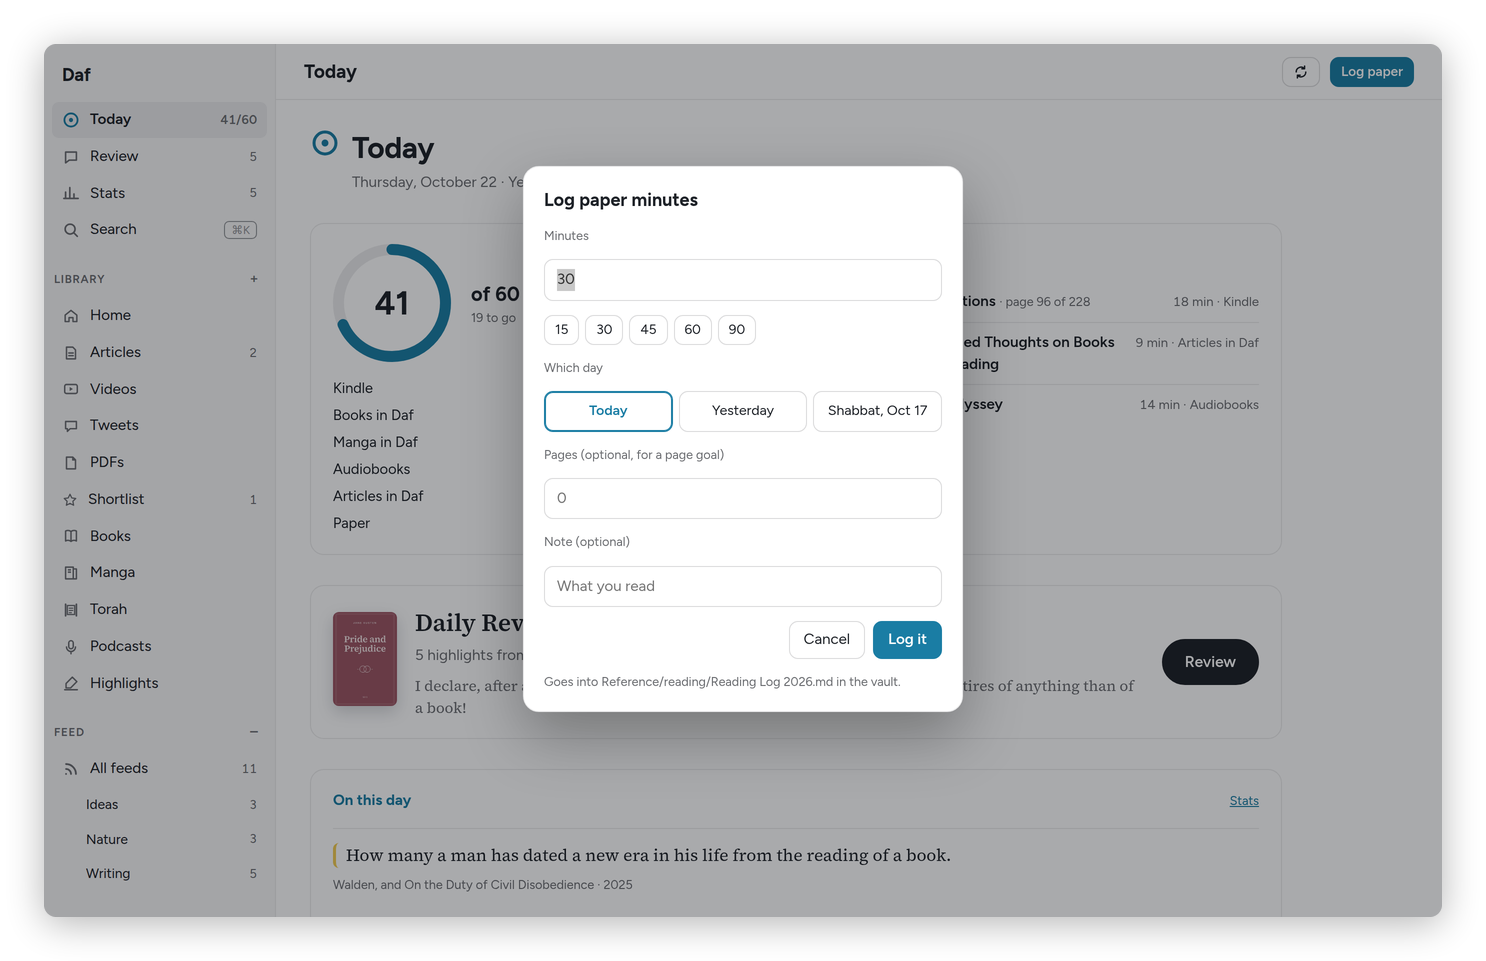
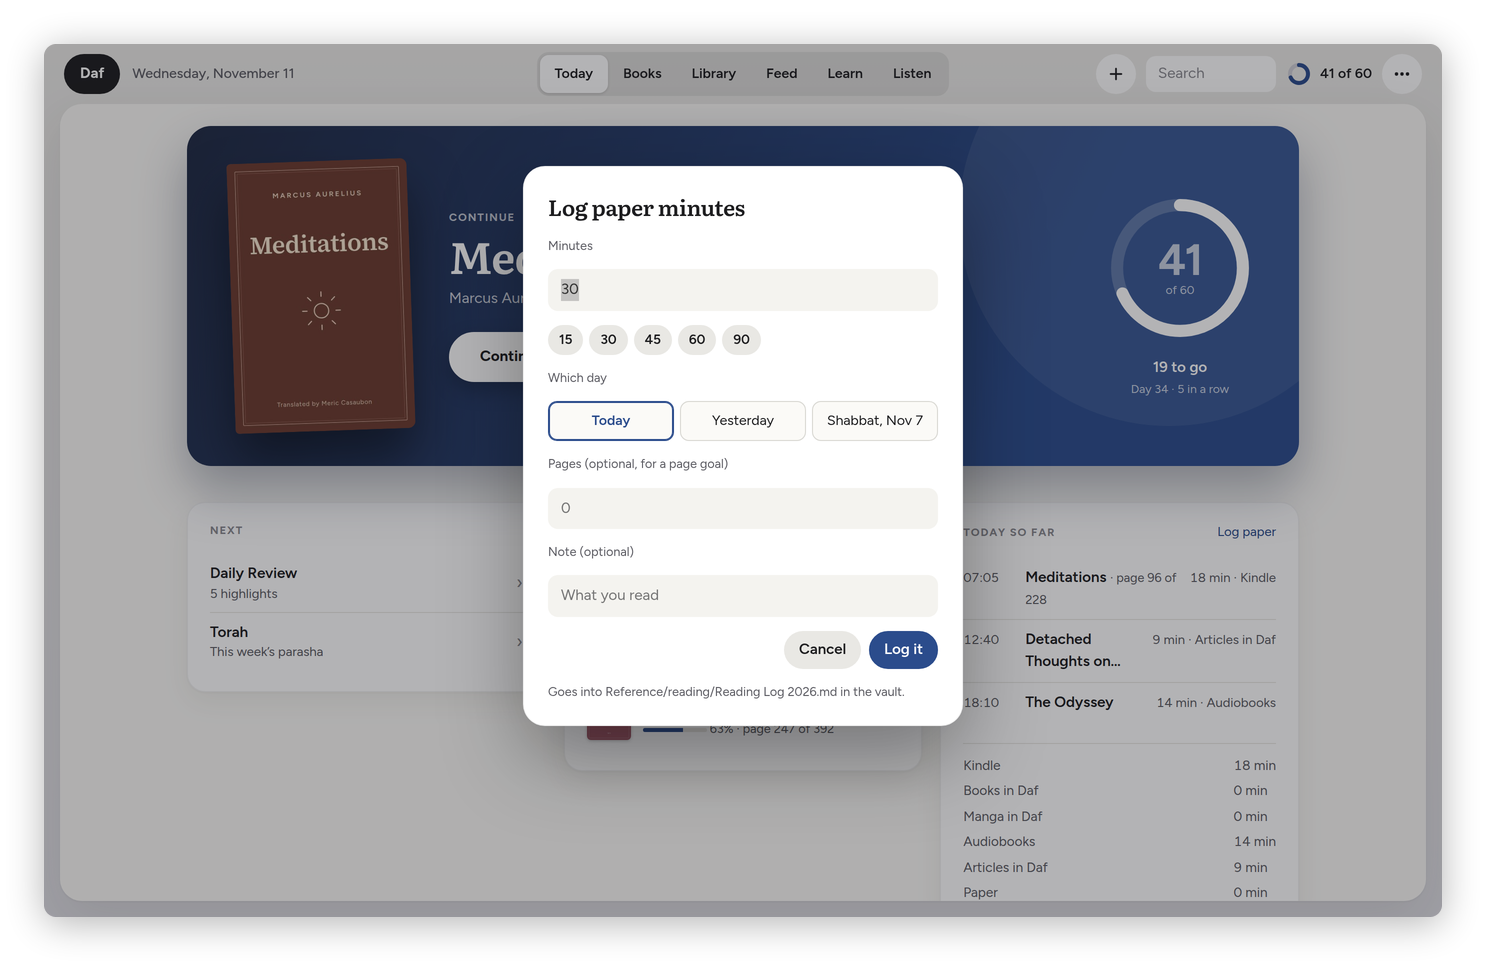
The new look is what Daf opens in; the guide's pictures in it (#58)
* The new look is what Daf opens in

Every device gets the new look unless it's turned off there (Preferences → New look → Off, or
?look=1), which keeps the old look for a while. The guide says so.

* The guide's pictures in the new look, from the sample library

docs/images retaken with tools/docs_shots.py. The sample library's pinned places never include
Recovery now (taste/app/demo.js), since the new look builds its tabs from them; the old sidebar was
filtered, the tabs weren't.

---------

diff --git a/web/index.html b/web/index.html
@@ -6,8 +6,8 @@
 <meta name="theme-color" content="#ffffff" media="(prefers-color-scheme: light)">
 <meta name="theme-color" content="#16171a" media="(prefers-color-scheme: dark)">
 <title>Daf</title>
-<script>/* the new look, if this device has it on (Preferences, or ?look=2 and ?look=1); web/look2.js and look2.css */
-try{var q=/[?&]look=(\d)/.exec(location.search);if(q)localStorage.setItem('daf.look',q[1]);if(/2/.test(localStorage.getItem('daf.look')||''))document.documentElement.dataset.look='2';}catch(e){}
+<script>/* the new look (web/look2.js and look2.css), unless this device has turned it off (Preferences → New look, or ?look=1; ?look=2 turns it on again) */
+try{var q=/[?&]look=(\d)/.exec(location.search);if(q)localStorage.setItem('daf.look',q[1]);if(!/1/.test(localStorage.getItem('daf.look')||''))document.documentElement.dataset.look='2';}catch(e){}
 /* the theme, before anything paints (web/themes.js keeps daf.themeVars, and the new look's version of each) */
 try{var r=document.documentElement,L2=r.dataset.look==='2',t=JSON.parse(localStorage.getItem('daf.themeVars')||'null'),a=(t||{}).a||{},d=a.mode==='dark'||(a.mode!=='light'&&matchMedia('(prefers-color-scheme: dark)').matches);if(t&&(!L2||t.light2)){var v=L2?(d?t.dark2:t.light2):(d?t.dark:t.light);for(var k in v)r.style.setProperty(k,v[k]);var m=(t.room||{})[d?'dark':'light'];if(m)r.dataset.room=m;}if(t||L2)r.dataset.mode=d?'dark':'light';}catch(e){}</script>
 <link rel="manifest" href="/manifest.webmanifest">

diff --git a/taste/app/demo.js b/taste/app/demo.js
@@ -1017,6 +1017,9 @@ Object.defineProperty(window, 'DafCore', { configurable: true, get(){ return cor
   if (!v || typeof v !== 'object') return;
   let extra = v.navExtra;
   Object.defineProperty(v, 'navExtra', { configurable: true, enumerable: true, get(){ return extra && ((x, n) => navFilter(extra(x, n))); }, set(f){ extra = f; } });
+  // the new look's tabs come from the pinned places: Recovery never, and in the demo none it can't open
+  const pins = v.pinsOn;
+  if (typeof pins === 'function') v.pinsOn = () => pins().filter(p => p !== 'recovery' && (SEED.docs || !['manga', 'torah', 'podcasts', 'paper'].includes(p)));
   const views = v.views || (v.views = {}), fixed = Object.assign(SEED.docs ? {} : AWAY, { recovery: RECOVERY_VIEW });
   for (const [k, f] of Object.entries(fixed)) Object.defineProperty(views, k, { configurable: true, enumerable: true, get(){ return f; }, set(){} });
 } });

diff --git a/docs/new-look.md b/docs/new-look.md
@@ -2,9 +2,9 @@
 
 # The new look
 
-Daf has a second look that I'm trying out, and it's off until I turn it on. **Preferences → New look** turns it on or off for the device I'm on, so I can have it on the tablet and keep the old one on the phone while I get used to it. Adding `?look=2` to the address does the same, and `?look=1` turns it off again.
+This is how Daf looks now, on every device. The old look, with its sidebar of icons, is still there for a while: **Preferences → New look → Off** brings it back on the device I'm on, and **On** returns. Adding `?look=1` to the address does the same as Off, and `?look=2` the same as On.
 
-The idea behind it is that each screen has one main thing on it, and everything else waits until I ask for it. With Daf's own theme the page sits as one cream sheet on a gray background, with white cards on it, serif titles and one blue for the buttons that matter. Any other theme in Preferences → Appearance colours it instead: the backdrop a shade darker than the theme, the sheet the theme's page, and Daf's own panels in its accent. The Rooms keep their materials. In the Rustic library the backdrop where the tabs are is the oxblood leather, the sheet is parchment, the cards keep their brass rule, the books stand on their shelves, and a book's bars are stitched leather as they always were; the Wood bookshelf, the Gothic and the Cyberpunk libraries work the same way. Dark mode follows my setting.
+The idea behind it is that each screen has one main thing on it, and everything else waits until I ask for it. Inside a book, an article or a PDF, the bar is the same everywhere: back and Contents on the left, the title in the middle, and the tools on the right as round buttons, the one that's on in the accent colour. With Daf's own theme the page sits as one cream sheet on a gray background, with white cards on it, serif titles and one blue for the buttons that matter. Any other theme in Preferences → Appearance colours it instead: the backdrop a shade darker than the theme, the sheet the theme's page, and Daf's own panels in its accent. The Rooms keep their materials. In the Rustic library the backdrop where the tabs are is the oxblood leather, the sheet is parchment, the cards keep their brass rule, the books stand on their shelves, and a book's bars are stitched leather as they always were; the Wood bookshelf, the Gothic and the Cyberpunk libraries work the same way. Dark mode follows my setting.
 
 ## Getting around
 

diff --git a/mac-native/PARITY.md b/mac-native/PARITY.md
@@ -161,7 +161,7 @@ rounds go: **here** means the Mac app has it, **not yet** means it's still to co
 
 ## The new look (2026-11-10)
 
-- not yet: the new look as a whole (web/look2.js, look2.css, docs/new-look.md): it is the web app's second look, behind Preferences → New look, and the Mac gets its own version once the web one is settled
+- not yet: the new look as a whole (web/look2.js, look2.css, docs/new-look.md): since 2026-11-11 it is the web app's default (the old look only behind Preferences → New look → Off), and the Mac gets its own version once the web one is settled
 - not yet: the lines where you left off in a book (GET /api/books/{id}/excerpt), for Today
 - not yet: themes and Rooms in the new look (themes.js T.vars2, the Rooms section at the end of look2.css): the backdrop is the room's frame, the sheet its wall
 - not yet: Preferences one page at a time, with Devices & extension as a page of its own (look2.js prefsPages)

diff --git a/docs/README.md b/docs/README.md
@@ -11,7 +11,7 @@ These pages explain Daf the way I'd explain it to a friend sitting next to me: w
 
 ### Using Daf
 - [Today and goals](today-and-goals.md) — the ring, the sittings, the year grid, and the goals behind them
-- [The new look](new-look.md) — the look I'm trying out: one main thing a screen, the tabs, the corner's ⋯ and one search
+- [The new look](new-look.md) — how Daf looks: one main thing a screen, the tabs, the corner's ⋯ and one search
 - [Where the minutes come from](reading-time.md) — the Kindle, audiobooks, paper and Daf, and what counts
 - [Paper books](paper-books.md) — logging minutes, Shabbat, and photos of marked pages
 - [The reader](reader.md) — books, articles and PDFs, themes and typefaces, writing with a pen, focus mode, Listen, lookup, Ask, and the keys
